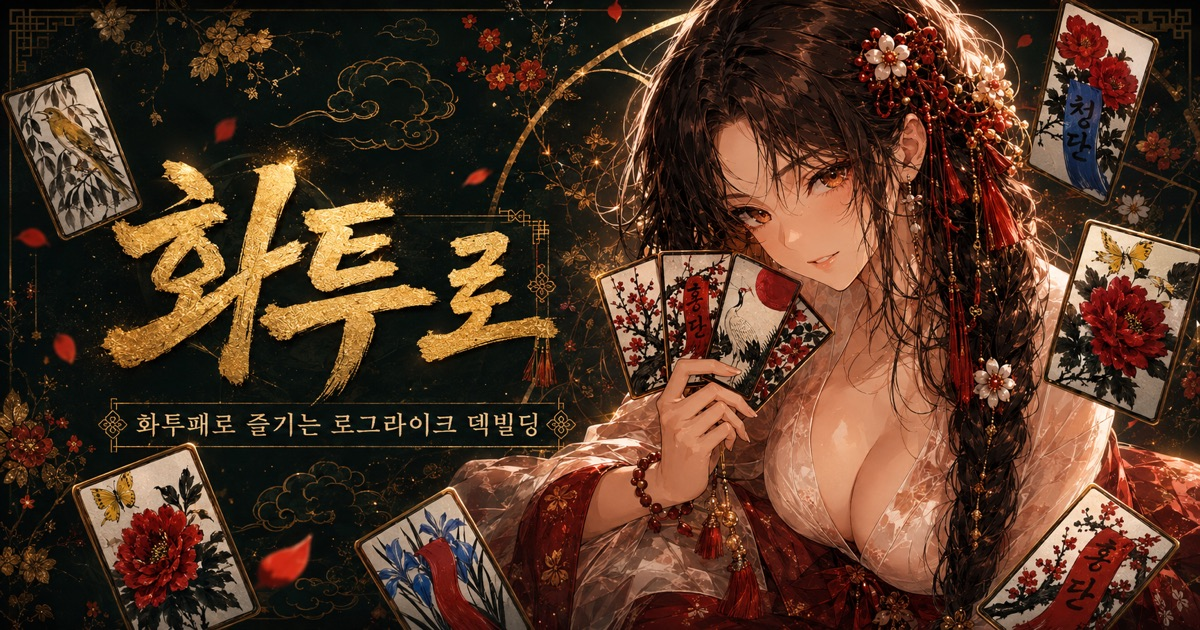
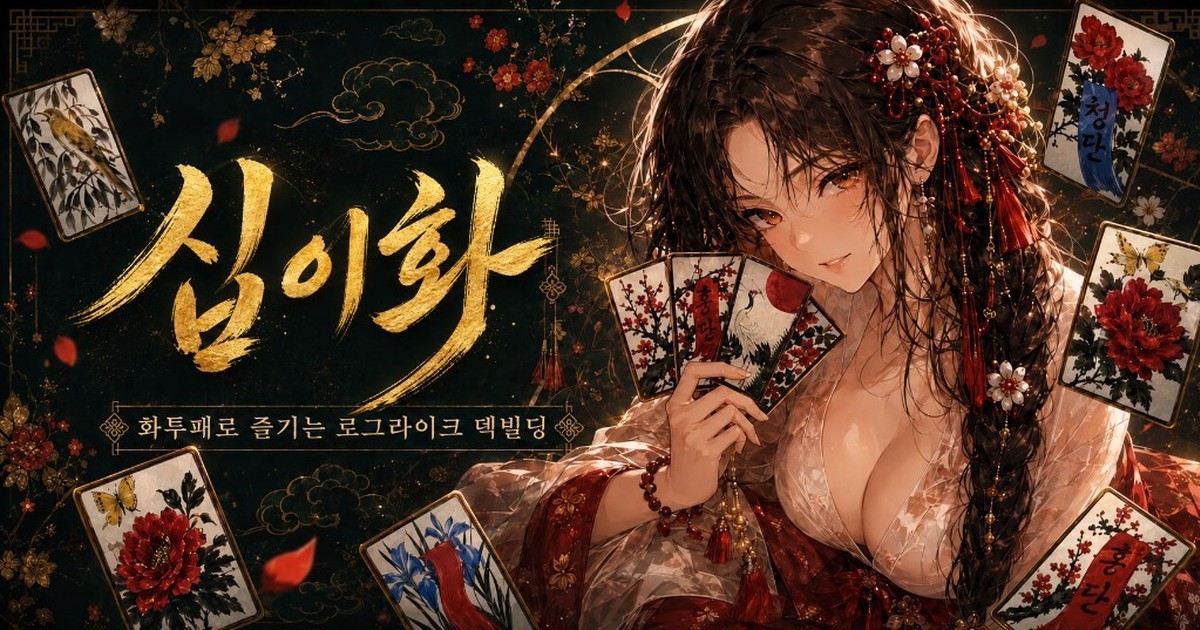
새 OG 이미지를 적용하고 배경 춘향을 살짝 오른쪽으로 옮긴다.

diff --git a/index.html b/index.html
@@ -10,7 +10,7 @@
 <meta property="og:title" content="십이화 — 무한의 판">
 <meta property="og:description" content="12월까지 클리어 쫄? ㅋㅋ">
 <meta property="og:url" content="https://hanate.jqklabs.com/">
-<meta property="og:image" content="https://hanate.jqklabs.com/Assets/OG/OG1.jpg">
+<meta property="og:image" content="https://hanate.jqklabs.com/Assets/OG/OG1.jpg?v=34">
 <meta property="og:image:width" content="1200">
 <meta property="og:image:height" content="630">
 <meta property="og:image:type" content="image/jpeg">
@@ -18,7 +18,7 @@
 <meta name="twitter:card" content="summary_large_image">
 <meta name="twitter:title" content="십이화 — 무한의 판">
 <meta name="twitter:description" content="12월까지 클리어 쫄? ㅋㅋ">
-<meta name="twitter:image" content="https://hanate.jqklabs.com/Assets/OG/OG1.jpg">
+<meta name="twitter:image" content="https://hanate.jqklabs.com/Assets/OG/OG1.jpg?v=34">
 <meta name="google-adsense-account" content="ca-pub-1930460760996573">
 <script async src="https://pagead2.googlesyndication.com/pagead/js/adsbygoogle.js?client=ca-pub-1930460760996573"
      crossorigin="anonymous"></script>
@@ -90,7 +90,7 @@
   }
   #bg-spine {
     position: absolute;
-    right: -4%;
+    right: -8%;
     /* 치마가 바닥에 닿되 과하게 가라앉지 않게 */
     bottom: -9%;
     width: min(58vw, 720px);

diff --git a/invite/OGB1/index.html b/invite/OGB1/index.html
@@ -10,7 +10,7 @@
 <meta property="og:title" content="십이화 — 무한의 판">
 <meta property="og:description" content="12월까지 클리어 쫄? ㅋㅋ">
 <meta property="og:url" content="https://hanate.jqklabs.com/invite/OGB1">
-<meta property="og:image" content="https://hanate.jqklabs.com/Assets/OG/OGB1.jpg">
+<meta property="og:image" content="https://hanate.jqklabs.com/Assets/OG/OGB1.jpg?v=34">
 <meta property="og:image:width" content="1200">
 <meta property="og:image:height" content="630">
 <meta property="og:image:type" content="image/jpeg">
@@ -18,7 +18,7 @@
 <meta name="twitter:card" content="summary_large_image">
 <meta name="twitter:title" content="십이화 — 무한의 판">
 <meta name="twitter:description" content="12월까지 클리어 쫄? ㅋㅋ">
-<meta name="twitter:image" content="https://hanate.jqklabs.com/Assets/OG/OGB1.jpg">
+<meta name="twitter:image" content="https://hanate.jqklabs.com/Assets/OG/OGB1.jpg?v=34">
 <script>
 try {
   localStorage.setItem('hwatro_from_invite', '1');

diff --git a/invite/OGB2/index.html b/invite/OGB2/index.html
@@ -10,7 +10,7 @@
 <meta property="og:title" content="십이화 — 무한의 판">
 <meta property="og:description" content="12월까지 클리어 쫄? ㅋㅋ">
 <meta property="og:url" content="https://hanate.jqklabs.com/invite/OGB2">
-<meta property="og:image" content="https://hanate.jqklabs.com/Assets/OG/OGB2.jpg">
+<meta property="og:image" content="https://hanate.jqklabs.com/Assets/OG/OGB2.jpg?v=34">
 <meta property="og:image:width" content="1200">
 <meta property="og:image:height" content="630">
 <meta property="og:image:type" content="image/jpeg">
@@ -18,7 +18,7 @@
 <meta name="twitter:card" content="summary_large_image">
 <meta name="twitter:title" content="십이화 — 무한의 판">
 <meta name="twitter:description" content="12월까지 클리어 쫄? ㅋㅋ">
-<meta name="twitter:image" content="https://hanate.jqklabs.com/Assets/OG/OGB2.jpg">
+<meta name="twitter:image" content="https://hanate.jqklabs.com/Assets/OG/OGB2.jpg?v=34">
 <script>
 try {
   localStorage.setItem('hwatro_from_invite', '1');

diff --git a/invite/OG1/index.html b/invite/OG1/index.html
@@ -10,7 +10,7 @@
 <meta property="og:title" content="십이화 — 무한의 판">
 <meta property="og:description" content="12월까지 클리어 쫄? ㅋㅋ">
 <meta property="og:url" content="https://hanate.jqklabs.com/invite/OG1">
-<meta property="og:image" content="https://hanate.jqklabs.com/Assets/OG/OG1.jpg">
+<meta property="og:image" content="https://hanate.jqklabs.com/Assets/OG/OG1.jpg?v=34">
 <meta property="og:image:width" content="1200">
 <meta property="og:image:height" content="630">
 <meta property="og:image:type" content="image/jpeg">
@@ -18,7 +18,7 @@
 <meta name="twitter:card" content="summary_large_image">
 <meta name="twitter:title" content="십이화 — 무한의 판">
 <meta name="twitter:description" content="12월까지 클리어 쫄? ㅋㅋ">
-<meta name="twitter:image" content="https://hanate.jqklabs.com/Assets/OG/OG1.jpg">
+<meta name="twitter:image" content="https://hanate.jqklabs.com/Assets/OG/OG1.jpg?v=34">
 <script>
 try {
   localStorage.setItem('hwatro_from_invite', '1');

diff --git a/invite/OG2/index.html b/invite/OG2/index.html
@@ -10,7 +10,7 @@
 <meta property="og:title" content="십이화 — 무한의 판">
 <meta property="og:description" content="12월까지 클리어 쫄? ㅋㅋ">
 <meta property="og:url" content="https://hanate.jqklabs.com/invite/OG2">
-<meta property="og:image" content="https://hanate.jqklabs.com/Assets/OG/OG2.jpg">
+<meta property="og:image" content="https://hanate.jqklabs.com/Assets/OG/OG2.jpg?v=34">
 <meta property="og:image:width" content="1200">
 <meta property="og:image:height" content="630">
 <meta property="og:image:type" content="image/jpeg">
@@ -18,7 +18,7 @@
 <meta name="twitter:card" content="summary_large_image">
 <meta name="twitter:title" content="십이화 — 무한의 판">
 <meta name="twitter:description" content="12월까지 클리어 쫄? ㅋㅋ">
-<meta name="twitter:image" content="https://hanate.jqklabs.com/Assets/OG/OG2.jpg">
+<meta name="twitter:image" content="https://hanate.jqklabs.com/Assets/OG/OG2.jpg?v=34">
 <script>
 try {
   localStorage.setItem('hwatro_from_invite', '1');

diff --git a/OGB1/index.html b/OGB1/index.html
@@ -10,7 +10,7 @@
 <meta property="og:title" content="십이화 — 무한의 판">
 <meta property="og:description" content="12월까지 클리어 쫄? ㅋㅋ">
 <meta property="og:url" content="https://hanate.jqklabs.com/OGB1">
-<meta property="og:image" content="https://hanate.jqklabs.com/Assets/OG/OGB1.jpg">
+<meta property="og:image" content="https://hanate.jqklabs.com/Assets/OG/OGB1.jpg?v=34">
 <meta property="og:image:width" content="1200">
 <meta property="og:image:height" content="630">
 <meta property="og:image:type" content="image/jpeg">
@@ -18,7 +18,7 @@
 <meta name="twitter:card" content="summary_large_image">
 <meta name="twitter:title" content="십이화 — 무한의 판">
 <meta name="twitter:description" content="12월까지 클리어 쫄? ㅋㅋ">
-<meta name="twitter:image" content="https://hanate.jqklabs.com/Assets/OG/OGB1.jpg">
+<meta name="twitter:image" content="https://hanate.jqklabs.com/Assets/OG/OGB1.jpg?v=34">
 <script>
 try {
   localStorage.setItem('hwatro_from_invite', '1');

diff --git a/OGB2/index.html b/OGB2/index.html
@@ -10,7 +10,7 @@
 <meta property="og:title" content="십이화 — 무한의 판">
 <meta property="og:description" content="12월까지 클리어 쫄? ㅋㅋ">
 <meta property="og:url" content="https://hanate.jqklabs.com/OGB2">
-<meta property="og:image" content="https://hanate.jqklabs.com/Assets/OG/OGB2.jpg">
+<meta property="og:image" content="https://hanate.jqklabs.com/Assets/OG/OGB2.jpg?v=34">
 <meta property="og:image:width" content="1200">
 <meta property="og:image:height" content="630">
 <meta property="og:image:type" content="image/jpeg">
@@ -18,7 +18,7 @@
 <meta name="twitter:card" content="summary_large_image">
 <meta name="twitter:title" content="십이화 — 무한의 판">
 <meta name="twitter:description" content="12월까지 클리어 쫄? ㅋㅋ">
-<meta name="twitter:image" content="https://hanate.jqklabs.com/Assets/OG/OGB2.jpg">
+<meta name="twitter:image" content="https://hanate.jqklabs.com/Assets/OG/OGB2.jpg?v=34">
 <script>
 try {
   localStorage.setItem('hwatro_from_invite', '1');

diff --git a/OG1/index.html b/OG1/index.html
@@ -10,7 +10,7 @@
 <meta property="og:title" content="십이화 — 무한의 판">
 <meta property="og:description" content="12월까지 클리어 쫄? ㅋㅋ">
 <meta property="og:url" content="https://hanate.jqklabs.com/OG1">
-<meta property="og:image" content="https://hanate.jqklabs.com/Assets/OG/OG1.jpg">
+<meta property="og:image" content="https://hanate.jqklabs.com/Assets/OG/OG1.jpg?v=34">
 <meta property="og:image:width" content="1200">
 <meta property="og:image:height" content="630">
 <meta property="og:image:type" content="image/jpeg">
@@ -18,7 +18,7 @@
 <meta name="twitter:card" content="summary_large_image">
 <meta name="twitter:title" content="십이화 — 무한의 판">
 <meta name="twitter:description" content="12월까지 클리어 쫄? ㅋㅋ">
-<meta name="twitter:image" content="https://hanate.jqklabs.com/Assets/OG/OG1.jpg">
+<meta name="twitter:image" content="https://hanate.jqklabs.com/Assets/OG/OG1.jpg?v=34">
 <script>
 try {
   localStorage.setItem('hwatro_from_invite', '1');

diff --git a/OG2/index.html b/OG2/index.html
@@ -10,7 +10,7 @@
 <meta property="og:title" content="십이화 — 무한의 판">
 <meta property="og:description" content="12월까지 클리어 쫄? ㅋㅋ">
 <meta property="og:url" content="https://hanate.jqklabs.com/OG2">
-<meta property="og:image" content="https://hanate.jqklabs.com/Assets/OG/OG2.jpg">
+<meta property="og:image" content="https://hanate.jqklabs.com/Assets/OG/OG2.jpg?v=34">
 <meta property="og:image:width" content="1200">
 <meta property="og:image:height" content="630">
 <meta property="og:image:type" content="image/jpeg">
@@ -18,7 +18,7 @@
 <meta name="twitter:card" content="summary_large_image">
 <meta name="twitter:title" content="십이화 — 무한의 판">
 <meta name="twitter:description" content="12월까지 클리어 쫄? ㅋㅋ">
-<meta name="twitter:image" content="https://hanate.jqklabs.com/Assets/OG/OG2.jpg">
+<meta name="twitter:image" content="https://hanate.jqklabs.com/Assets/OG/OG2.jpg?v=34">
 <script>
 try {
   localStorage.setItem('hwatro_from_invite', '1');
